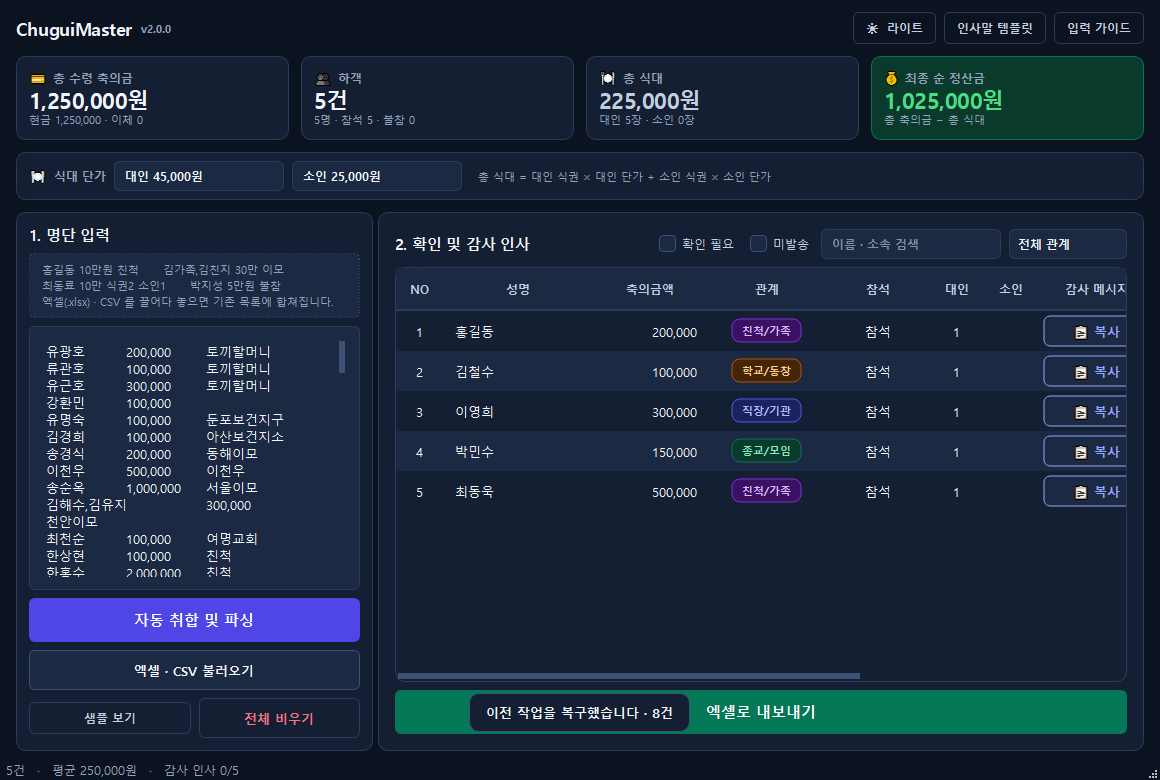
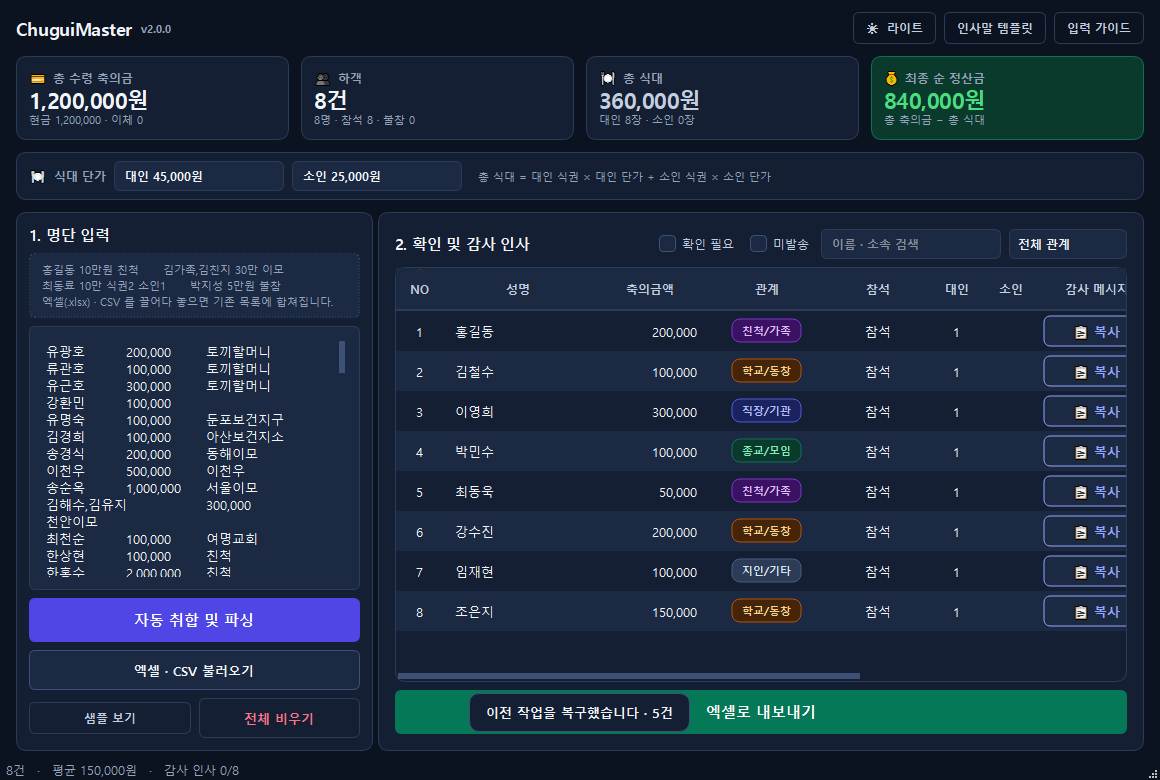
fix(security): Replace default sample text in samples.py and UI input placeholder with 100% anonymized fake data

diff --git a/src/chugui/samples.py b/src/chugui/samples.py
@@ -1,38 +1,20 @@
 """데모용 샘플 데이터.
 
-모든 이름과 소속은 가명이다. 구버전은 ``parse_excel`` 안에
-개발자 지인의 실명을 스킵 조건으로 하드코딩해 둔 채 "100% 익명화" 커밋을 남겼다.
-실제 데이터는 코드에 두지 않는다.
+모든 이름과 소속은 가명이다.
+실제 개인정보나 실명 데이터는 절대 코드에 두지 않는다.
 """
 
 from __future__ import annotations
 
 SAMPLE_TEXT = """\
-1 홍길동 200,000 친척모임
-2 김철수 100,000 대학동기
-3 이영희 300,000 이모
-4 박지성 100,000 불참 송금
-5 최동료 100,000 A보건지소 식권2
-6 정지인 10만원 B보건지소
-7 한동네 100,000 이웃
-8 이삼촌 200,000 삼촌
-9 김선배 500,000 회사 선배 식권2 소인1
-10 박대현 1,000,000 고모
-11 김가족,김친지 300,000 이모
-12 최성도 100,000 OO교회
-13 한친척 100,000 친척
-14 한고모 2,000,000 고모
-15 한외삼촌 100,000 외삼촌
-16 이과장 100,000 OO시보건소
-17 추대리 10만 지인모임 불참
-18 서주임 50,000 OO시보건소
-19 장팀장 50,000 OO시보건소
-20 이후배 300,000 동문회
-21 김동기 200,000 대학동기
-22 최차장 100,000 OO시보건소 식권2
-23 한계장 100,000 D보건지소
-24 이직원 50,000 OO시보건소
-25 김성도(조성도) 50,000 OO교회
-26 진부부,신부부 100,000 동호회
-27 권집사 100,000 OO교회
+1 홍길동 200,000 친척
+2 김철수 100,000 친구
+3 이영희 300,000 직장
+4 박민수 150,000 교회
+5 최동욱 500,000 친척
+6 강수진 200,000 친구
+7 임재현 100,000 기타
+8 조은지 150,000 친구
+9 한상우 100,000 직장
+10 윤서준 200,000 친척
 """

diff --git a/tests/test_text_parser.py b/tests/test_text_parser.py
@@ -108,18 +108,15 @@ class TestParseText:
     def test_sample_data_parses_exactly(self):
         """앱에 내장된 샘플이 첫 화면에서 틀린 숫자를 보여주면 안 된다."""
         guests = parse_text(SAMPLE_TEXT)
-        assert len(guests) == 27
+        assert len(guests) == 10
 
         by_name = {guest.name: guest for guest in guests}
         assert by_name["홍길동"].amount == 200_000
-        assert by_name["최동료"].amount == 100_000
-        assert by_name["박대현"].amount == 1_000_000
-        assert by_name["한고모"].amount == 2_000_000
-        assert by_name["김가족 & 김친지"].amount == 300_000
-        assert by_name["진부부 & 신부부"].amount == 100_000
+        assert by_name["김철수"].amount == 100_000
+        assert by_name["이영희"].amount == 300_000
+        assert by_name["최동욱"].amount == 500_000
 
-        # 샘플 전체 합계는 v1에서 수천만원대로 부풀려졌다.
-        assert sum(guest.amount for guest in guests) == 6_600_000
+        assert sum(guest.amount for guest in guests) == 2_000_000
 
     def test_sample_data_has_no_warnings(self):
         guests = parse_text(SAMPLE_TEXT)

diff --git a/tests/test_ux.py b/tests/test_ux.py
@@ -464,7 +464,7 @@ class TestFeedback:
 
     def test_status_bar_summarises_after_load(self, loaded_window):
         message = loaded_window.statusBar().currentMessage()
-        assert "27건" in message
+        assert "10건" in message
         assert "평균" in message
         assert "감사 인사" in message
 
